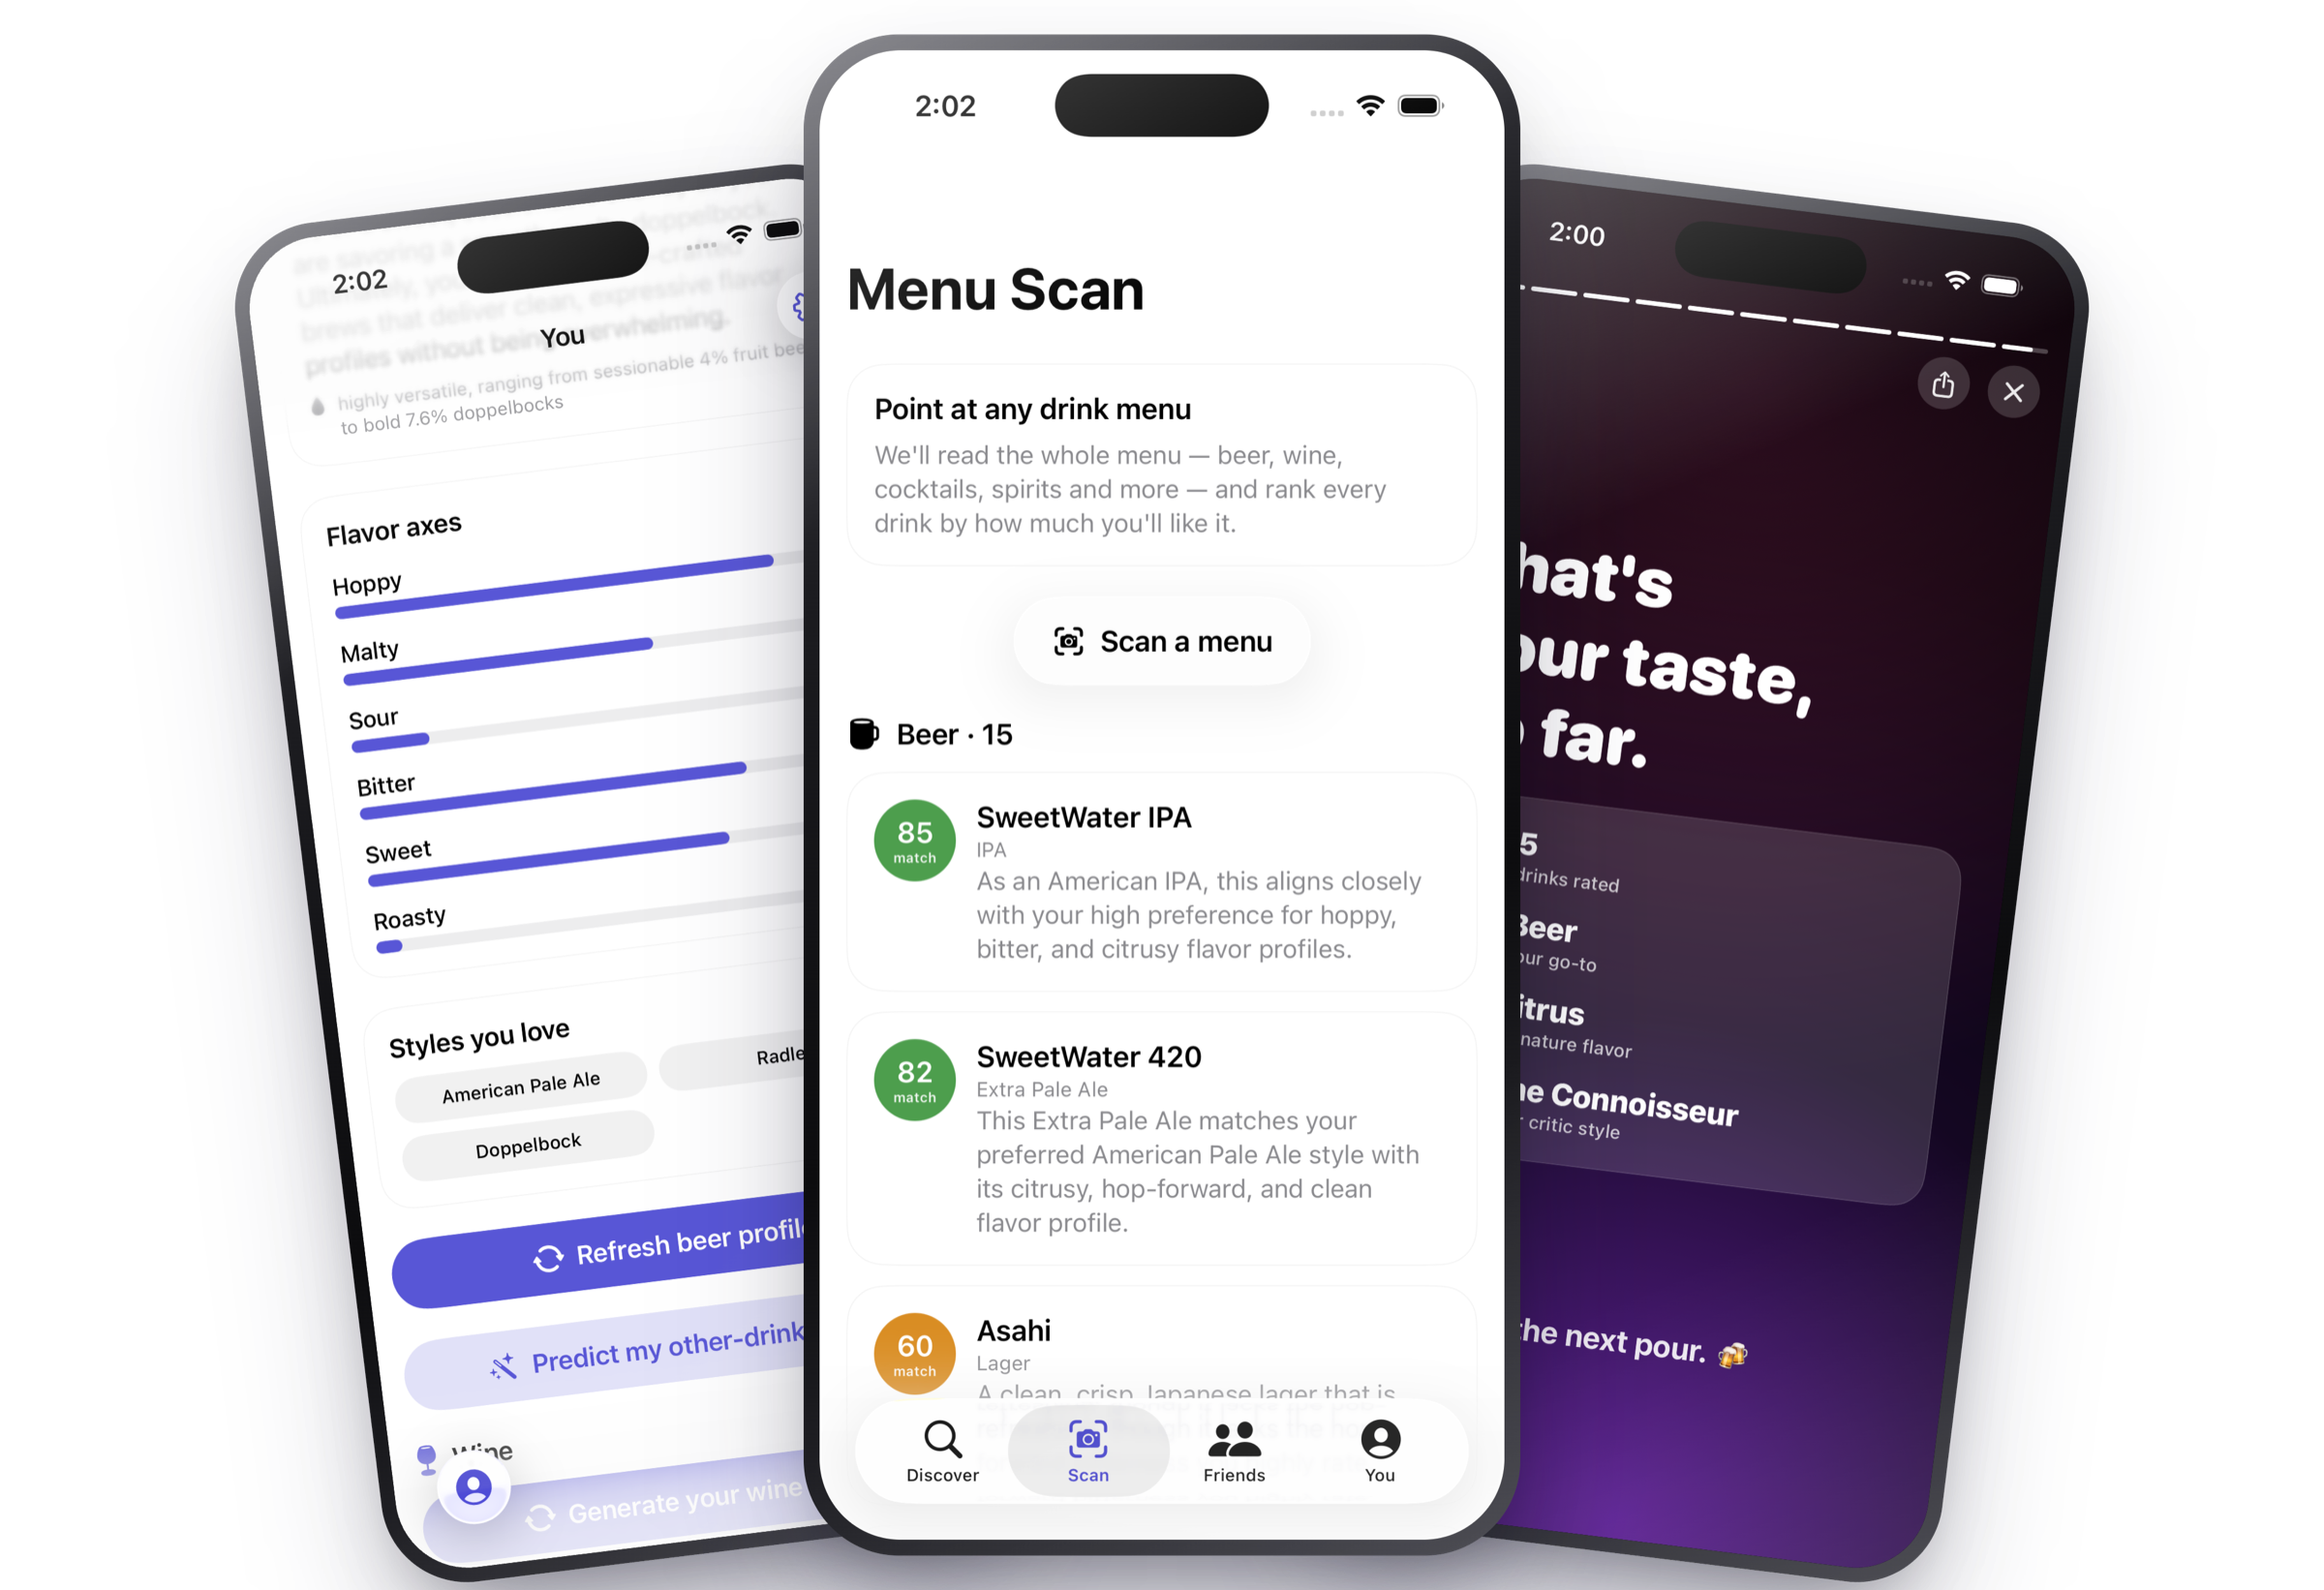
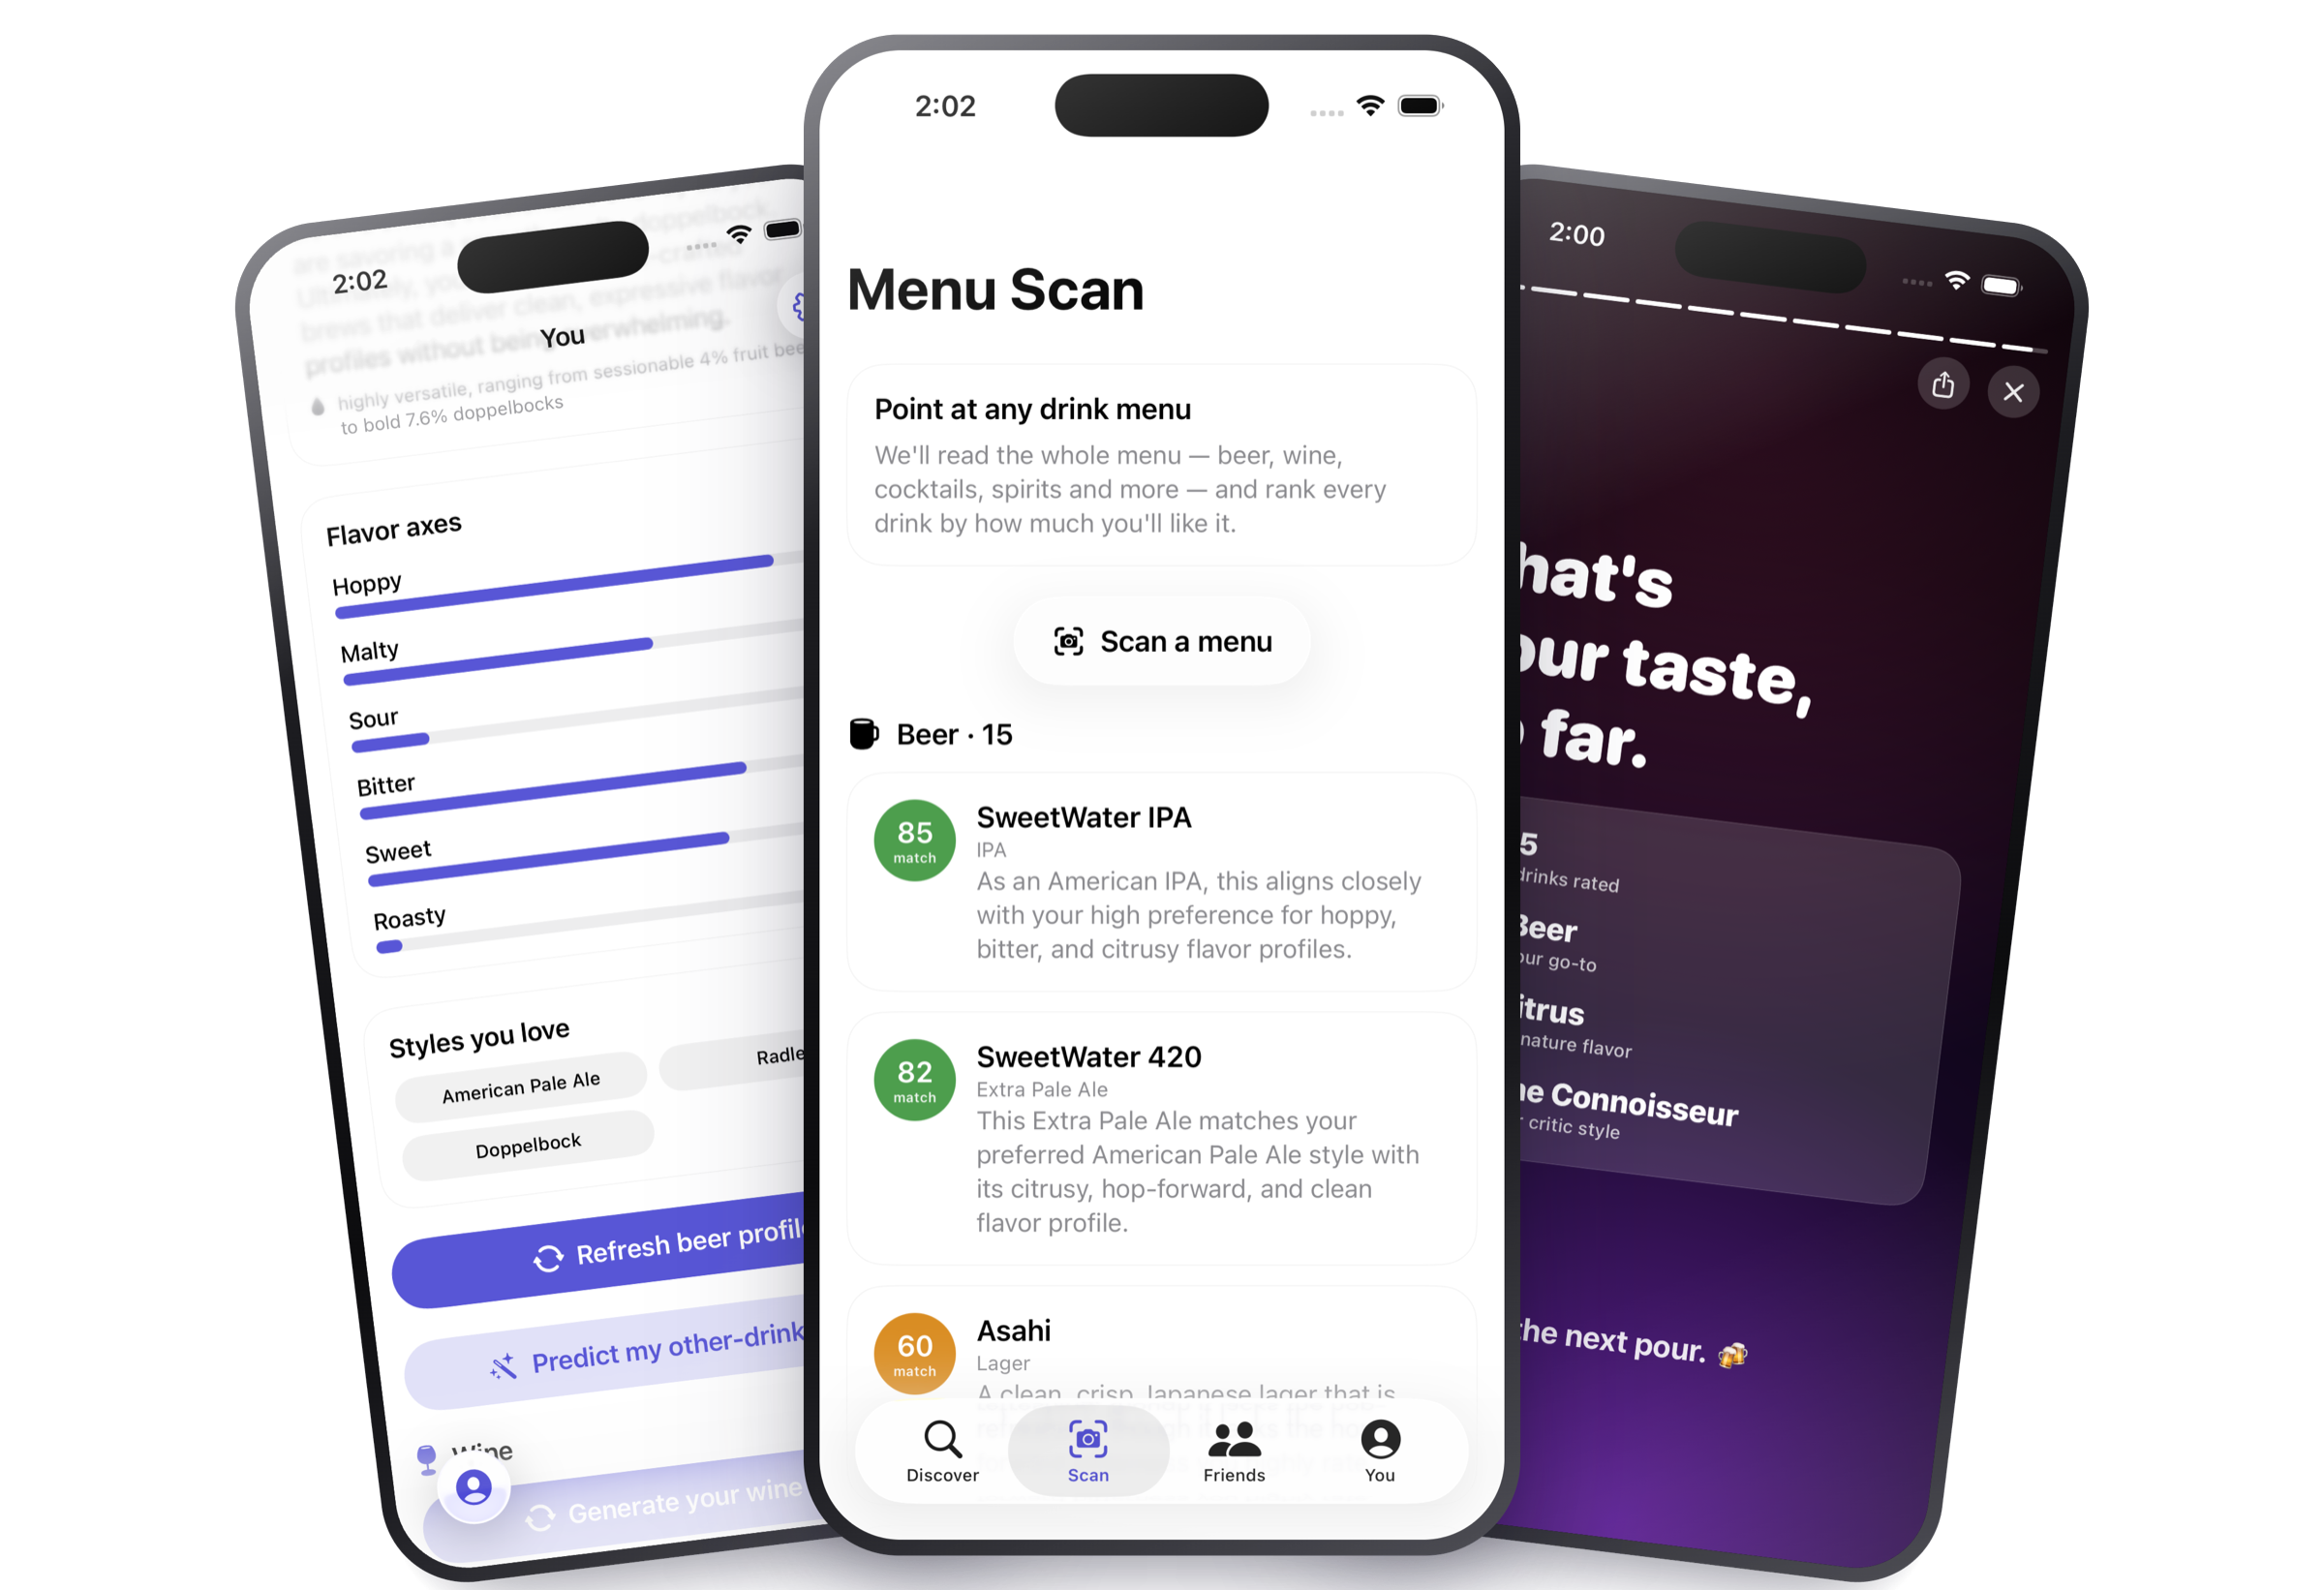
update busy beer site (from beer-project dcd905b)

Changed region(s): [[0.0938, 0.2174, 0.9062, 1.0]]

diff --git a/busybeer/styles.css b/busybeer/styles.css
@@ -90,6 +90,7 @@ body {
 .blob-2 { top: 30%; right: -20%; width: 70vw; height: 70vw; background: var(--color-2); animation-delay: -5s; }
 .blob-3 { bottom: -20%; left: 10%; width: 80vw; height: 60vw; background: var(--color-3); animation-delay: -10s; }
 .blob-4 { top: 10%; left: 30%; width: 50vw; height: 50vw; background: var(--color-4); animation-delay: -15s; }
+.blob-5 { top: 48%; left: 18%; width: 68vw; height: 56vw; background: var(--color-5); animation-delay: -20s; }
 
 @keyframes float {
   0% { transform: translate(0, 0) scale(1) rotate(0deg); }
@@ -368,7 +369,7 @@ em.ink { font-style: normal; color: var(--color-1); }
 
 /* Gallery Loop */
 .gallery {
-  display: flex; gap: 40px; overflow: hidden; padding: 20px 0 32px;
+  display: flex; gap: 40px; overflow: hidden; padding: 20px 0 80px;
   mask-image: linear-gradient(to right, transparent, #000 10%, #000 90%, transparent);
   -webkit-mask-image: linear-gradient(to right, transparent, #000 10%, #000 90%, transparent);
 }
@@ -377,17 +378,9 @@ em.ink { font-style: normal; color: var(--color-1); }
 @keyframes scroll-x { from { transform: translateX(0); } to { transform: translateX(calc(-100% - 40px)); } }
 
 /* Privacy */
-/* Soft glow that bridges the carousel into the privacy section so the
-   fixed mesh background's dark dead-zone doesn't read as a flat band.
-   Both halves fade over the same pixel distance toward the shared edge,
-   so they meet seamlessly with no horizontal line. */
-#screens {
-  background: radial-gradient(900px 360px at 50% 100%, rgba(88, 86, 214, 0.16), rgba(80, 227, 194, 0.06) 55%, transparent 80%);
-}
-#privacy {
-  padding-top: 40px;
-  background: radial-gradient(900px 360px at 50% 0%, rgba(88, 86, 214, 0.16), rgba(80, 227, 194, 0.06) 55%, transparent 80%);
-}
+#privacy { padding-top: 40px; padding-bottom: 24px; }
+#privacy .privacy-card { padding-bottom: 24px; }
+#get { padding-top: 56px; }
 .privacy-card { text-align: center; max-width: 820px; margin: 0 auto; padding: 60px 40px; }
 .privacy-card .display { font-size: clamp(40px, 7vw, 76px); margin-bottom: 24px; line-height: 1.1; }
 .privacy-card .lede { margin: 0 auto 36px; max-width: 620px; }

diff --git a/busybeer/index.html b/busybeer/index.html
@@ -56,6 +56,7 @@
   <div class="mesh-blob blob-2"></div>
   <div class="mesh-blob blob-3"></div>
   <div class="mesh-blob blob-4"></div>
+  <div class="mesh-blob blob-5"></div>
 </div>
 
 <header class="site-header">